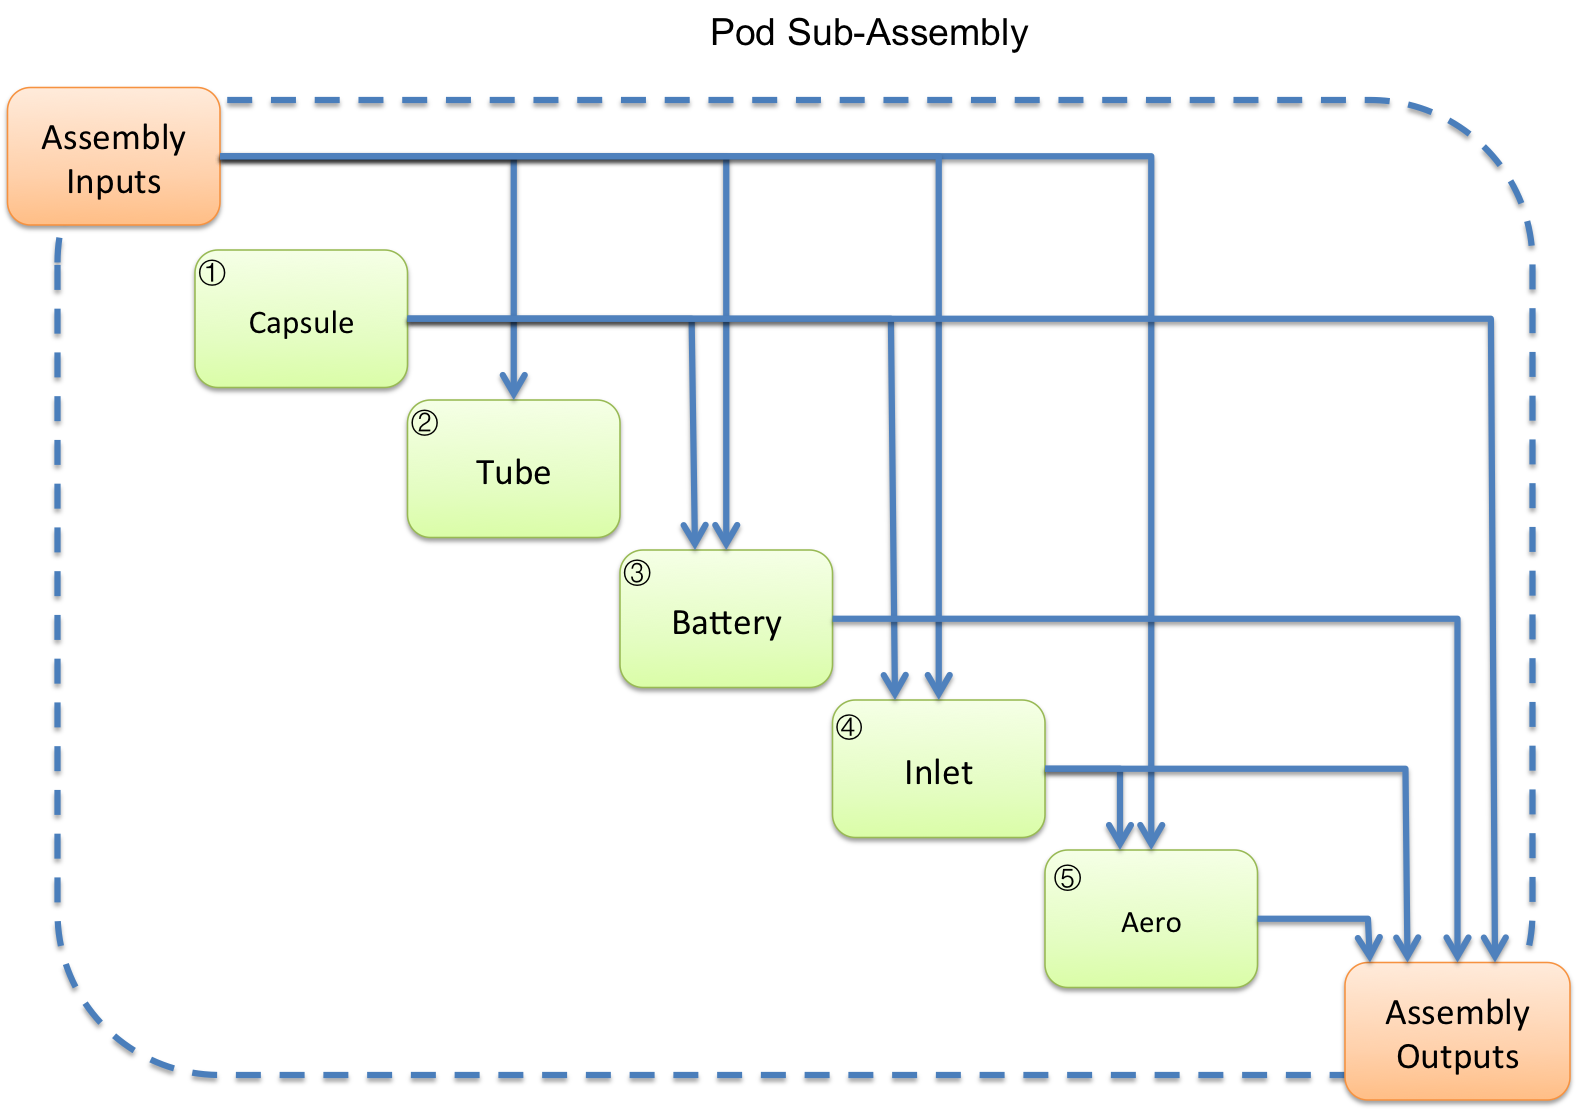
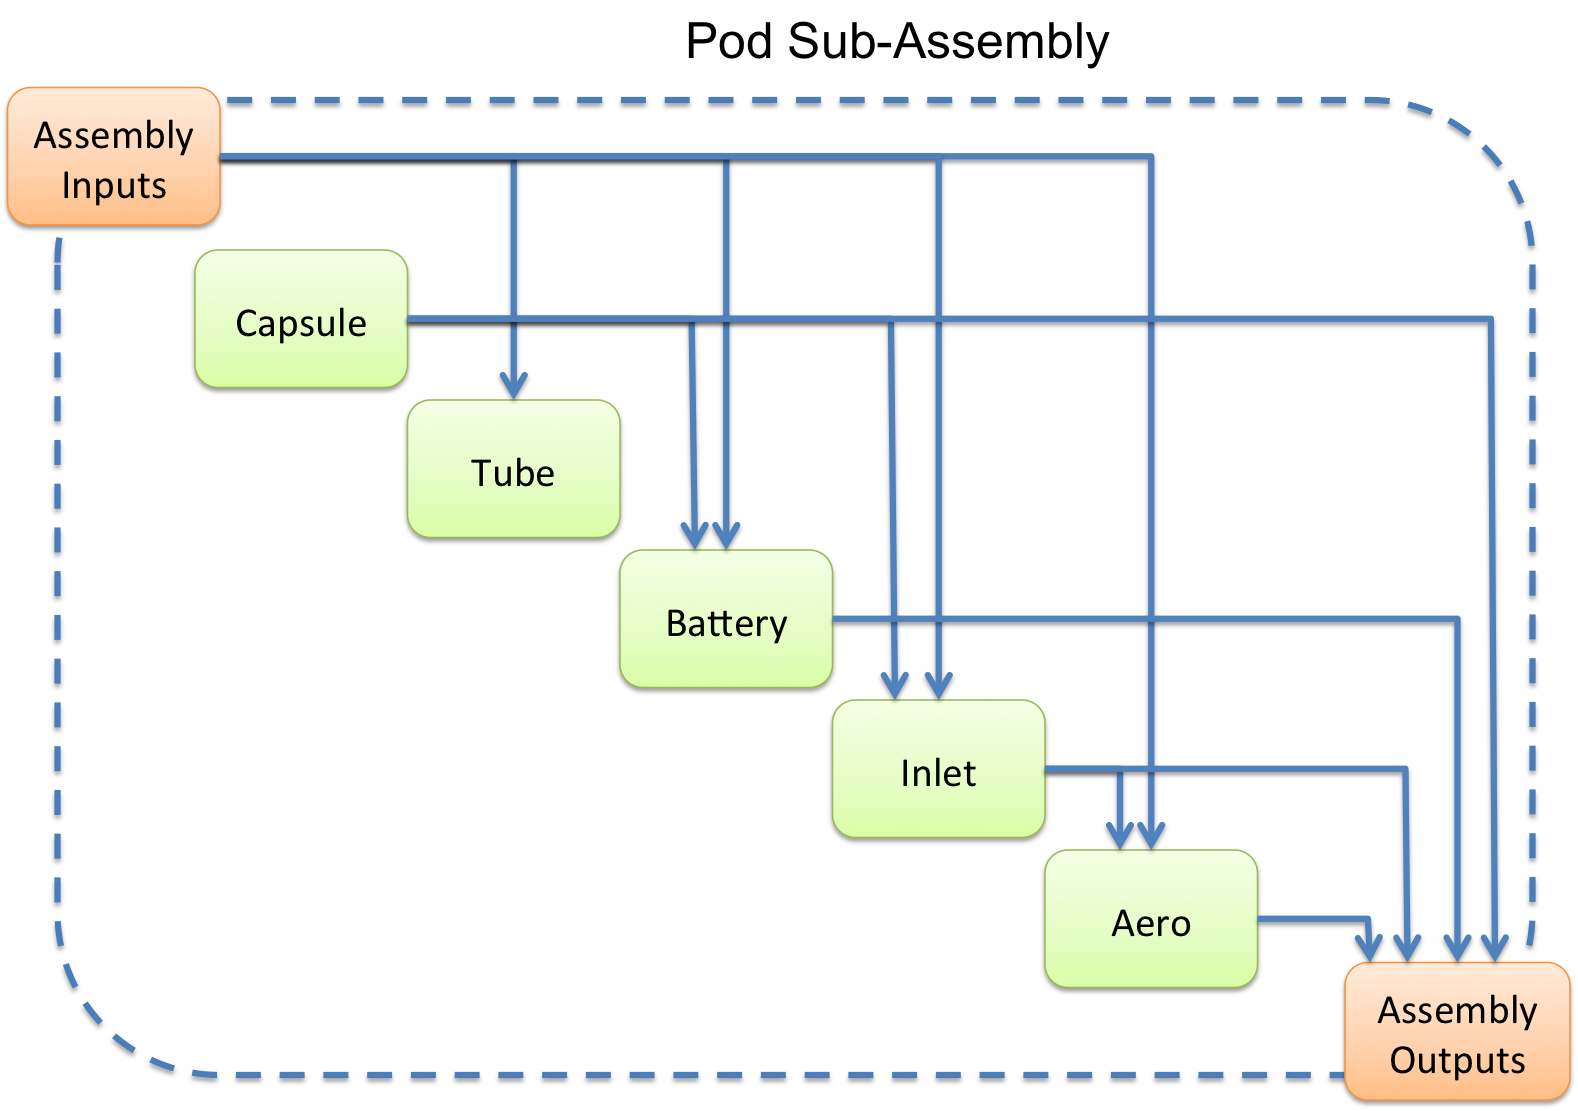
Remade XDSM's Close #30

diff --git a/NASA-TM/appendix.tex b/NASA-TM/appendix.tex
@@ -8,15 +8,15 @@
 
 \begin{figure}[hbtp]
 \centering
-\includegraphics[width=0.7\textwidth]{images/pod_assembly_xdsm.png}
+\includegraphics[width=0.7\textwidth]{images/podAssembly.png}
 \caption{Expanded \texttt{pod} assembly XDSM}
 \label{f:podXDSM}
 \end{figure}
 
 \begin{figure}[H]
 \centering
-\includegraphics[width=0.85\textwidth]{images/compress_assembly_xdsm.png}
-\caption{Expanded \texttt{compress} assembly XDSM}
+\includegraphics[width=0.8\textwidth]{images/compAssembly.png}
+\caption{Expanded \texttt{compressor} assembly XDSM}
 \label{f:compressorXDSM}
 \end{figure}
 
